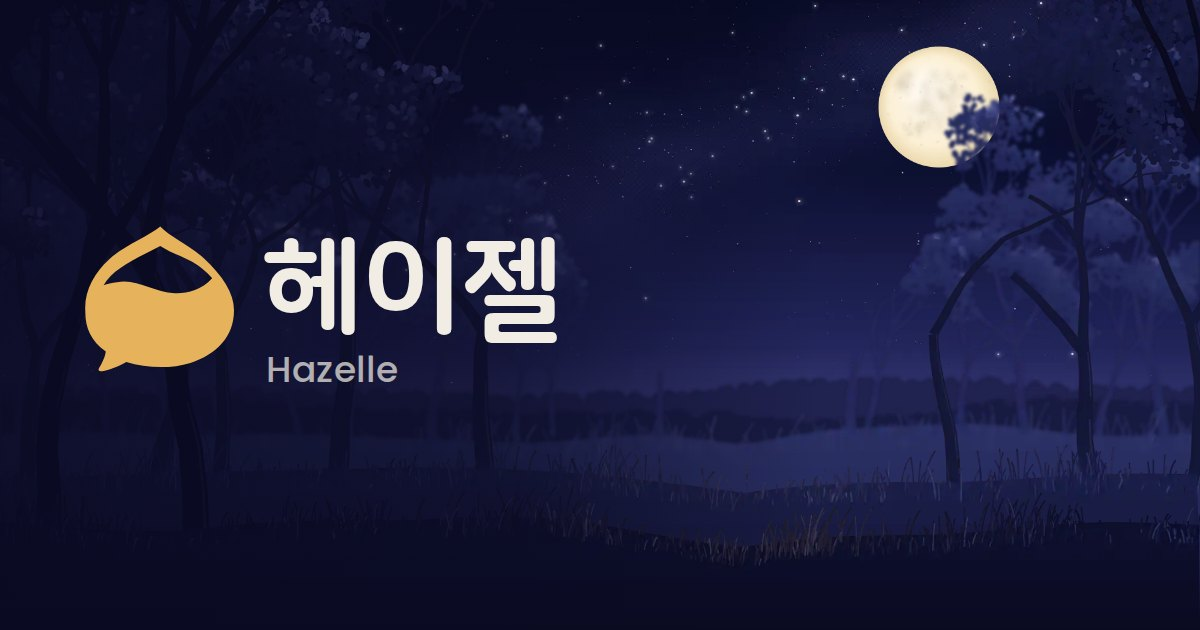
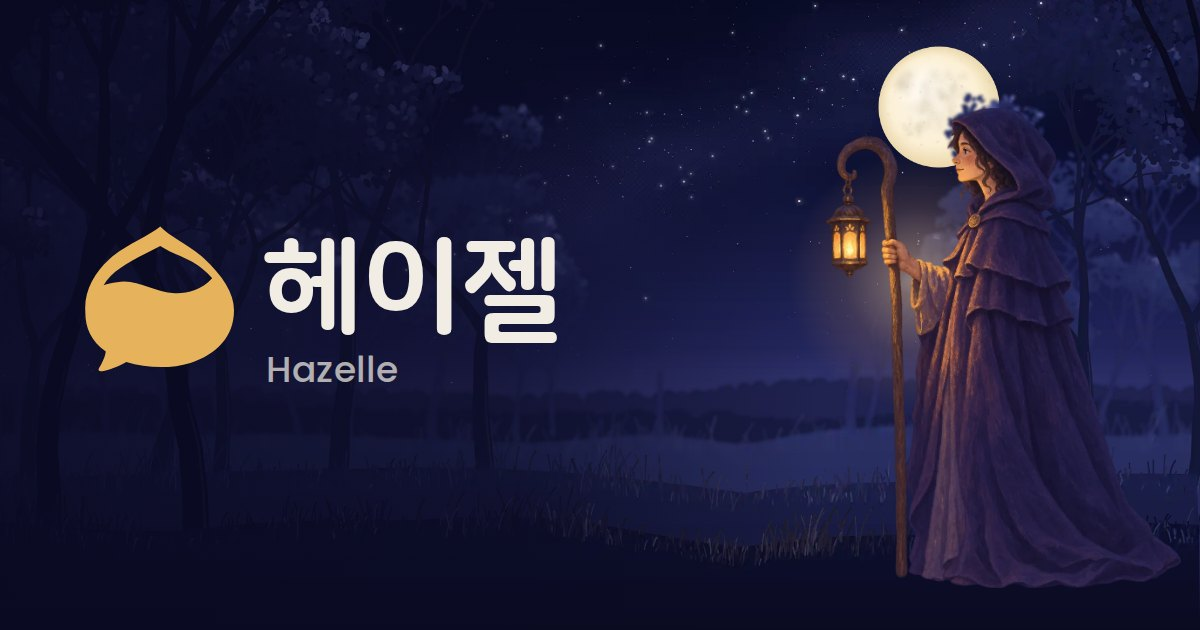
design: 아린과 오두막 일러스트 적용과 손에 든 등불 추가
1. 아린과 오두막을 일러스트로 교체 (완료)
   * 배경 제거와 밤 색조 보정, 오두막 주변 빛과 바닥 추가
   * 스크립트의 옛 아린, 오두막 그리기 삭제
2. 포인터와 손가락을 따라가는 등불 추가 (완료)
   * 등불 밖의 숲을 어둡게, 걸음마다 흔들리고 새벽에 사라짐
   * 가까운 나무 세 줄이 바람에 흔들림
3. 링크 미리보기에 아린 추가 (완료)

Claude-Session: https://claude.ai/code/session_01PCQ2ENCSFCka4K15hJUv6j

Changed region(s): [[0.6783, 0.1508, 0.9867, 0.9349]]

diff --git a/src/app/ui/landing/NightScene.tsx b/src/app/ui/landing/NightScene.tsx
@@ -69,17 +69,17 @@ function useWalk(frames: () => Keyframe[]) {
 
 // Far planes share pictures with near ones: seen at another depth, between other trees, a row reads as new.
 // Each comes out of the fog well before it is near, so the fog does its far colors, and leaves before it fills the screen.
-const ROWS = [
+const ROWS: readonly { art: { wide: string; tall: string }; z: number; seen: Seen; takes?: string }[] = [
   { art: ROW_B, z: 19000, seen: { in: [0.3, 0.5], out: [0.84, 0.9] } },
   { art: ROW_D, z: 13000, seen: { in: [0.16, 0.36], out: [0.8, 0.86] } },
   { art: ROW_B, z: 8500, seen: { in: [0.1, 0.28], out: [0.72, 0.8] } },
   { art: ROW_D, z: 5500, seen: { in: [0.06, 0.2], out: [0.58, 0.66] } },
   { art: ROW_B, z: 3400, seen: { in: [0.04, 0.14], out: [0.38, 0.44] } },
   { art: ROW_D, z: 2000, seen: { in: [0.02, 0.1], out: [0.22, 0.27] } },
-  { art: ROW_A, z: 1000, seen: { out: [0.1, 0.16] } },
-  { art: ROW_B, z: 600, seen: { out: [0.07, 0.12] } },
-  { art: ROW_C, z: 200, seen: { out: [0.05, 0.09] } },
-] as const;
+  { art: ROW_A, z: 1000, seen: { out: [0.1, 0.16] }, takes: '11s' },
+  { art: ROW_B, z: 600, seen: { out: [0.07, 0.12] }, takes: '9s' },
+  { art: ROW_C, z: 200, seen: { out: [0.05, 0.09] }, takes: '7s' },
+];
 
 const CABIN = { z: 5000, seen: { in: [0.42, 0.52], out: [0.665, 0.71] } } as const;
 const ARIN = { z: 1500, seen: { out: [0.25, 0.275] } } as const;
@@ -90,6 +90,9 @@ const RIDGE = { z: 60000, seen: {} } as const;
 const stops = (at: (share: number) => Keyframe) => () => Array.from({ length: SAMPLES + 1 }, (_, index) => at(index / SAMPLES));
 const MOON = stops((share) => ({ transform: `translate3d(0, ${share < 0.44 ? between(0, 0.44, share) * 5 : 5 + between(0.44, 0.84, share) * 69}vh, 0)` }));
 const DAWN = stops((share) => ({ opacity: between(0.66, 1, share) }));
+// The carried lantern dips and rises with each step of the walk, and is not needed once the sun is up.
+const STRIDES = 22;
+const STEP = stops((share) => ({ transform: `translate3d(${Math.sin(share * STRIDES * Math.PI) * 9}px, ${Math.abs(Math.cos(share * STRIDES * Math.PI)) * 14}px, 0)`, opacity: 1 - between(0.68, 0.9, share) }));
 const SUN = stops((share) => ({ transform: `translate3d(0, ${(1 - between(0.74, 1, share)) * 34}vh, 0)`, opacity: between(0.74, 1, share) }));
 
 const FIREFLIES = Array.from({ length: 16 }, (_, index) => {
@@ -128,6 +131,7 @@ function Moving({ className, frames, children }: { className: string; frames: ()
 // glow: how far the visitor has come (0 to 3), told by the door's steps. talking: 아린 is answering.
 export function NightScene({ glow, talking }: { glow: number; talking: boolean }) {
   const stage = useRef<HTMLDivElement>(null);
+  const lantern = useRef<HTMLDivElement>(null);
   const [walking, setWalking] = useState(false);
 
   useEffect(() => {
@@ -156,27 +160,45 @@ export function NightScene({ glow, talking }: { glow: number; talking: boolean }
   }, [walking]);
 
   useEffect(() => {
-    if (!hasFinePointer() || stillness()) return;
+    if (stillness()) return;
     const node = stage.current!;
-    const aim = { x: 0.5, y: 0.5 };
-    const now = { x: 0.5, y: 0.5 };
+    const carried = lantern.current!;
+    // A finger also moves the lantern, but looking around stays with a mouse: it restyles every plane, which a phone pays for.
+    const looks = hasFinePointer();
+    const aim = matchMedia(MEDIA.tallScreen).matches ? { x: 0.5, y: 0.66 } : { x: 0.62, y: 0.68 };
+    const now = { ...aim };
     let frame = 0;
+    const place = () => {
+      carried.style.transform = `translate3d(${now.x * innerWidth}px, ${now.y * innerHeight}px, 0)`;
+    };
     const settle = () => {
       now.x += (aim.x - now.x) * 0.08;
       now.y += (aim.y - now.y) * 0.08;
-      node.style.setProperty('--look-x', now.x.toFixed(4));
-      node.style.setProperty('--look-y', now.y.toFixed(4));
+      place();
+      if (looks) {
+        node.style.setProperty('--look-x', now.x.toFixed(4));
+        node.style.setProperty('--look-y', now.y.toFixed(4));
+      }
       frame = Math.abs(aim.x - now.x) + Math.abs(aim.y - now.y) > 0.0008 ? requestAnimationFrame(settle) : 0;
     };
-    const move = ({ clientX, clientY }: PointerEvent) => {
-      aim.x = clientX / innerWidth;
-      aim.y = clientY / innerHeight;
-      node.dataset['lit'] = '';
+    const point = (x: number, y: number) => {
+      aim.x = x / innerWidth;
+      aim.y = y / innerHeight;
       if (!frame) frame = requestAnimationFrame(settle);
     };
-    addEventListener('pointermove', move, { passive: true });
+    const moved = ({ clientX, clientY }: PointerEvent) => point(clientX, clientY);
+    // A scrolling finger stops sending pointer events almost at once; touch events keep coming.
+    const touched = ({ touches }: TouchEvent) => point(touches[0]!.clientX, touches[0]!.clientY);
+    place();
+    addEventListener('pointermove', moved, { passive: true });
+    addEventListener('touchstart', touched, { passive: true });
+    addEventListener('touchmove', touched, { passive: true });
+    addEventListener('resize', place);
     return () => {
-      removeEventListener('pointermove', move);
+      removeEventListener('pointermove', moved);
+      removeEventListener('touchstart', touched);
+      removeEventListener('touchmove', touched);
+      removeEventListener('resize', place);
       cancelAnimationFrame(frame);
     };
   }, []);
@@ -192,8 +214,10 @@ export function NightScene({ glow, talking }: { glow: number; talking: boolean }
       <Moving className={styles.sun} frames={SUN} />
       <Plane {...RIDGE}><Art wide={ridgeWide} tall={ridgeTall} /></Plane>
       {walking && <Plane {...HILL}><Art wide={hillWide} tall={hillTall} /></Plane>}
-      {ROWS.map(({ art, z, seen }) => ('in' in seen && !walking ? null : (
-        <Plane key={z} z={z} seen={seen}><Art wide={art.wide} tall={art.tall} priority={z === 200} /></Plane>
+      {ROWS.map(({ art, z, seen, takes }) => (seen.in && !walking ? null : (
+        <Plane key={z} z={z} seen={seen}>
+          {takes ? <div className={styles.sway} style={{ '--sway-takes': takes } as CSSProperties}><Art wide={art.wide} tall={art.tall} priority={z === 200} /></div> : <Art wide={art.wide} tall={art.tall} />}
+        </Plane>
       )))}
       {walking && (
         <Plane {...CABIN}>
@@ -211,6 +235,12 @@ export function NightScene({ glow, talking }: { glow: number; talking: boolean }
       </Plane>
       <div className={styles.haze} />
       <div className={styles.warmth} />
+      <div ref={lantern} className={styles.lantern}>
+        <Moving className={styles.step} frames={STEP}>
+          <div className={styles.veil} />
+          <div className={styles.carried} />
+        </Moving>
+      </div>
       <div className={styles.flies}>
         {FIREFLIES.map(({ key, style }) => (
           <div key={key} className={styles.gather} style={style}>
@@ -218,7 +248,6 @@ export function NightScene({ glow, talking }: { glow: number; talking: boolean }
           </div>
         ))}
       </div>
-      <div className={styles.carried} />
       <div className={styles.grain} />
       <div className={styles.curtain} />
     </div>

diff --git a/src/app/ui/landing/NightScene.module.css b/src/app/ui/landing/NightScene.module.css
@@ -19,7 +19,6 @@
   .flies,
   .grain,
   .curtain,
-  .carried,
   .dawn {
     position: absolute;
     inset: 0;
@@ -97,7 +96,7 @@
     bottom: var(--scene-arin-ground);
     left: var(--scene-arin-x);
     height: var(--scene-arin-height);
-    aspect-ratio: 1000 / 1100;
+    aspect-ratio: 813 / 1100;
     transform: translateX(-50%);
   }
 
@@ -130,10 +129,33 @@
     transform: translateX(-50%);
   }
 
+  /* An illustration cut from its background: the light around it and the ground under it stand it in this forest. */
+  .cabin::before,
+  .cabin::after {
+    content: '';
+    position: absolute;
+    pointer-events: none;
+  }
+
+  .cabin::before {
+    inset: var(--scene-cabin-halo-reach);
+    background: var(--scene-cabin-halo);
+  }
+
+  .cabin::after {
+    right: var(--scene-cabin-pool-side);
+    bottom: var(--scene-cabin-pool-under);
+    left: var(--scene-cabin-pool-side);
+    height: var(--scene-cabin-pool-height);
+    background: var(--scene-cabin-pool);
+  }
+
   .cabin img {
+    position: relative;
     display: block;
     width: 100%;
     opacity: 0;
+    mask-image: var(--scene-cabin-foot);
     transition: opacity var(--scene-art-in) var(--ease-enter);
   }
 
@@ -193,22 +215,44 @@
     animation: firefly var(--takes) var(--ease-loop) var(--after) infinite;
   }
 
-  /* The lantern the visitor carries: moved, never repainted. */
+  /* The lantern the visitor carries: the forest stays dark outside it. Moved, never repainted; the veil's flat rim costs no memory. */
+  .lantern,
+  .step {
+    position: absolute;
+    top: 0;
+    left: 0;
+    width: 0;
+    height: 0;
+  }
+
+  .veil,
+  .carried {
+    position: absolute;
+    border-radius: var(--radius-full);
+  }
+
+  .veil {
+    top: calc(var(--scene-veil-reach) * -1);
+    left: calc(var(--scene-veil-reach) * -1);
+    width: calc(var(--scene-veil-reach) * 2);
+    height: calc(var(--scene-veil-reach) * 2);
+    background: var(--scene-veil);
+  }
+
   .carried {
     top: calc(var(--scene-carried-reach) * -1);
     left: calc(var(--scene-carried-reach) * -1);
     width: calc(var(--scene-carried-reach) * 2);
     height: calc(var(--scene-carried-reach) * 2);
-    inset-block-end: auto;
-    inset-inline-end: auto;
-    opacity: 0;
     background: var(--scene-carried);
-    transform: translate3d(calc(var(--look-x) * 100vw), calc(var(--look-y) * 100vh), 0);
-    transition: opacity var(--scene-answer) var(--ease-enter);
   }
 
-  [data-lit] .carried {
-    opacity: 1;
+  /* Rooted at the ground, so a row leans in the wind instead of sliding. */
+  .sway {
+    position: absolute;
+    inset: 0;
+    transform-origin: 50% 100%;
+    animation: sway var(--sway-takes) var(--ease-loop) infinite alternate;
   }
 
   .grain {
@@ -225,9 +269,14 @@
   @media (prefers-reduced-motion: reduce) {
     .arinGlow,
     .bough,
+    .sway,
     .fly,
     .curtain {
       animation: none;
+    }
+
+    .lantern {
+      display: none;
     }
 
     .curtain {
@@ -250,6 +299,16 @@
     62% {
       opacity: 0.74;
       transform: translate(-50%, -50%) scale(calc(var(--flare, 1) * 0.97));
+    }
+  }
+
+  @keyframes sway {
+    from {
+      transform: skewX(var(--scene-sway-from));
+    }
+
+    to {
+      transform: skewX(var(--scene-sway-to));
     }
   }
 

diff --git a/src/app/ui/foundation/tokens.css b/src/app/ui/foundation/tokens.css
@@ -545,15 +545,22 @@
   --scene-sun-size: clamp(460px, 64vw, 900px);
   --scene-arin-ground: 28.5%;
   --scene-arin-x: 63.4%;
-  --scene-arin-height: 10.8vh;
-  --scene-arin-lantern-x: 22.4%;
-  --scene-arin-lantern-y: 33.8%;
-  --scene-arin-glow: 84%;
+  --scene-arin-height: 10vh;
+  --scene-arin-lantern-x: 6.4%;
+  --scene-arin-lantern-y: 27.7%;
+  --scene-arin-glow: 100%;
   --scene-lantern-glow: radial-gradient(closest-side, #ffe9bde6 0, #ffbe6e80 26%, #f2a85a2e 58%, transparent);
   --scene-flicker: 3.4s;
-  --scene-cabin-ground: 27%;
-  --scene-cabin-x: 62.4%;
-  --scene-cabin-width: 20vw;
+  --scene-cabin-ground: 29%;
+  --scene-cabin-x: 62.1%;
+  --scene-cabin-width: 13vw;
+  --scene-cabin-halo-reach: -14% -12% 0;
+  --scene-cabin-halo: radial-gradient(ellipse 50% 56% at 52% 60%, #ffb4603d, #ffb4600f 62%, transparent);
+  --scene-cabin-pool-side: -24%;
+  --scene-cabin-pool-under: -11%;
+  --scene-cabin-pool-height: 24%;
+  --scene-cabin-pool: radial-gradient(ellipse 22% 42% at 52.5% 50%, #ffc47842, #ffb46014 58%, transparent), radial-gradient(ellipse closest-side, #06071ea6 40%, transparent);
+  --scene-cabin-foot: linear-gradient(#000 96%, transparent);
   --scene-bough-sway: 7s;
   --scene-bough-from: -0.5deg;
   --scene-bough-to: 0.7deg;
@@ -563,8 +570,12 @@
   --scene-fly-reach: 46px;
   --scene-fly-light: #f6f1a8;
   --scene-fly-glow: 0 0 10px 3px #e8e27acc, 0 0 28px 8px #e8e27a33;
-  --scene-carried: radial-gradient(closest-side, #ffc4782e, transparent);
-  --scene-carried-reach: 300px;
+  --scene-carried: radial-gradient(closest-side, #ffcf8f4d 0, #ffbf7626 42%, transparent);
+  --scene-carried-reach: clamp(220px, 34vmax, 560px);
+  --scene-veil: radial-gradient(circle closest-side, transparent 8%, #05061a57 26%);
+  --scene-veil-reach: 240vmax;
+  --scene-sway-from: -0.3deg;
+  --scene-sway-to: 0.3deg;
   --landing-hero: clamp(42px, 6.6vw, 96px);
   --landing-title: clamp(30px, 4vw, 56px);
   --landing-point: clamp(26px, 3.4vw, 46px);
@@ -825,8 +836,8 @@
     --scene-moon-top: 14vh;
     --scene-moon-size: 76px;
     --scene-arin-x: 52.3%;
-    --scene-arin-height: 6.4vh;
-    --scene-cabin-x: 50%;
-    --scene-cabin-width: 26vw;
+    --scene-arin-height: 6vh;
+    --scene-cabin-x: 49.6%;
+    --scene-cabin-width: 17vw;
   }
 }

diff --git a/src/app/ui/README.md b/src/app/ui/README.md
@@ -137,7 +137,7 @@ One kind of thing looks and reads one way on every screen. The kit decides what 
 | layout | `Stack` | `Stack.module.css` | A column with a named gap: related, group or section |
 | layout | `ToolFrame` | `ToolFrame.module.css` | An opaque-origin tool page that fills the rest of its column (a `fill` Screen or SidePanel); the caller connects its window |
 | layout | `TranslateDesk` | `TranslateDesk.module.css` | 번역기: a bar of choices, then the source and its translation side by side in one box, taking the height a `fill` Screen leaves, each scrolling its own text (stacked on a narrow page), each pane with a foot of counts and buttons |
-| landing | `NightScene` | `NightScene.module.css` | The first page's night walk behind everything: painted pictures (`landing/art`, from `scripts/paint-forest.mts`) that scale with the page's scroll, from the forest's edge past 아린 and the cabin out to dawn. Answers the visitor through `glow` and `talking`; stands still under reduced motion |
+| landing | `NightScene` | `NightScene.module.css` | The first page's night walk behind everything: pictures (`landing/art`: the forest from `scripts/paint-forest.mts`, 아린 and the cabin illustrations) that scale with the page's scroll, from the forest's edge past 아린 and the cabin out to dawn. The forest is dark outside a lantern that follows the pointer or finger and dips with each step. Answers the visitor through `glow` and `talking`; stands still, with no lantern, under reduced motion |
 | landing | `Hero`, `Beat`, `Door`, `TrialSteps`, `Said`, `SendRow`, `SayChoices`, `KeyPlaces`, `Promises` | `Landing.module.css` | The first page's parts over that scene: hanging lanterns for the key links, the cabin's open door for the live parts; their colors are `--scene-*` and `--landing-*`, fixed in both themes |
 | controls | `Button` (`ButtonSlot`, inside the kit only) | `Button.module.css` | Variants (a link and a delete among them), sizes, the busy spinner; the size a slot decides |
 | controls | `Checkbox` | `Checkbox.module.css` | A labeled checkbox, with a note after its label, or its label read aloud only beside a row that names it; dimmed when it cannot be ticked |
